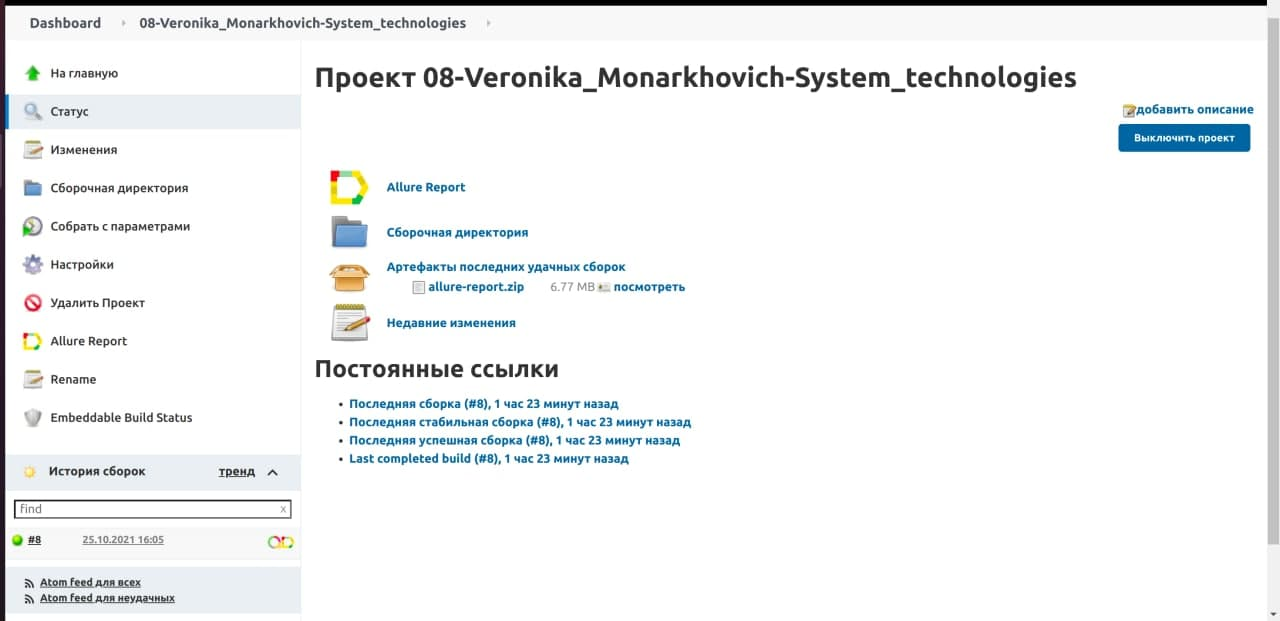
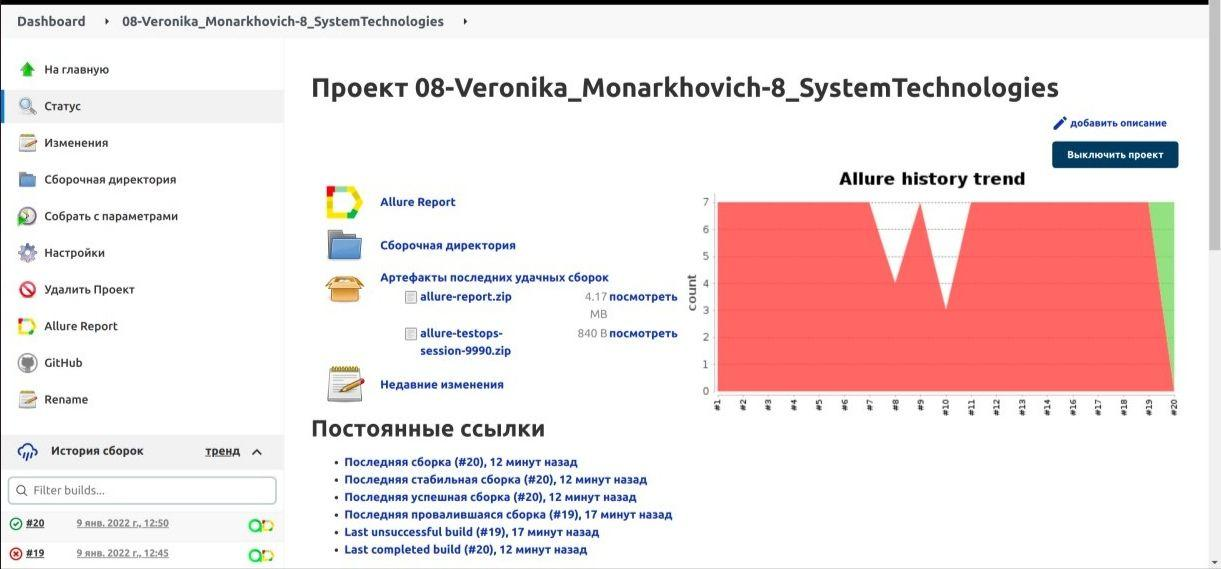
change README

Changed region(s): [[0.249, 0.2689, 1.0, 0.8963], [0.0, 0.0, 1.0, 1.0], [0.249, 0.0896, 0.9959, 0.2988]]

diff --git a/README.md b/README.md
@@ -9,14 +9,14 @@
 
 ___
 
-## :person_in_tuxedo: Запуск тестов происходит в CI [Jenkins](https://jenkins.autotests.cloud/job/08-Veronika_Monarkhovich-System_technologies/)
+## :person_in_tuxedo: Запуск тестов происходит в CI [Jenkins](http://localhost:9090/job/08-Veronika_Monarkhovich-8_SystemTechnologies/)
 
 <img src="images/jenkins.jpg" width="800" height="600"> 
 
 Создаем config.properties:
 
 ```bash
-./src/test/resources/config/config.properties
+src/test/resources/config/config.properties
 ```
 Text File Content:
 ```bash
@@ -24,11 +24,10 @@ webUrl=https://www.st.by
 remoteUrl = REMOTE_DRIVER_URL
 ```
 Запуск тестов:
-- в параметре DremoteDriverUrl - указываем логин, пароль и адрес удаленного сервера, где будут проходить тесты
 - в параметре DvideoStorage указываем место для сохранения видео
 - в параметре Dbrowser задаем браузер
 ```bash
-gradle clean test -Dbrowser=${BROWSER}  -DremoteDriverUrl=${REMOTE_DRIVER_URL} -DvideoStorage=https://selenoid.autotests.cloud/video/
+clean test -Dbrowser=${BROWSER} -DvideoStorage=http://localhost:8080/video/
 ```
 
 Генерация отчета:
@@ -47,8 +46,13 @@ ___
 ___
 
 ## <img src="images/ato1.jpg" width="20" height="20"> Тестовая документация, сгенерированная в Allure TestOps по итогам прохождения тестов
+
 <img src="images/ato.jpg" width="800" height="600"> 
 
+___
+## <img src=https://github.com/VeronikaMonarkhovich/VeronikaMonarkhovich/blob/master/logo/Java.png width="20" height="20"> Задача в таск-трекере Jira с данными, экспортированными из Allure TestOps
+
+<img src="images/jira.jpg" width="800" height="600"> 
 ___
 
 ## :calling: Уведомления о прохождение тестов отправляются в Telegram
